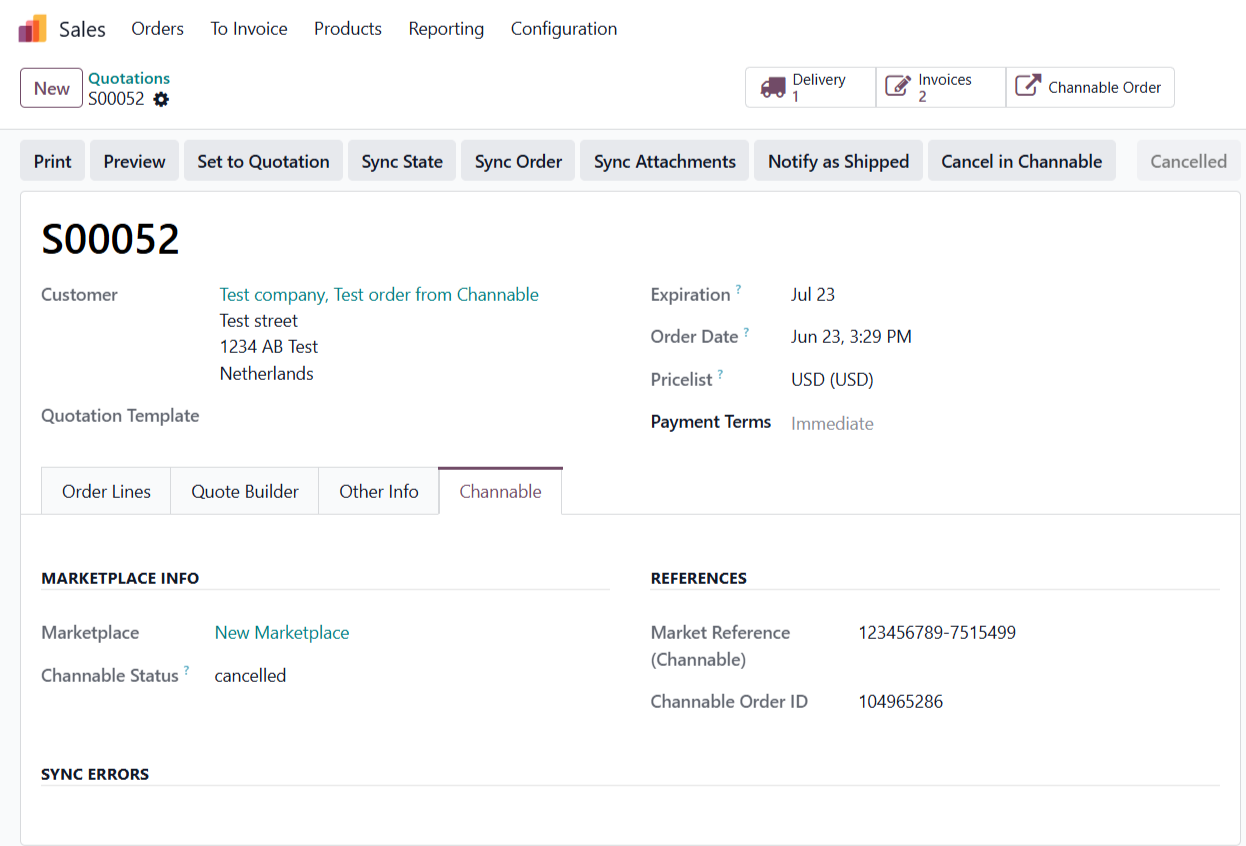
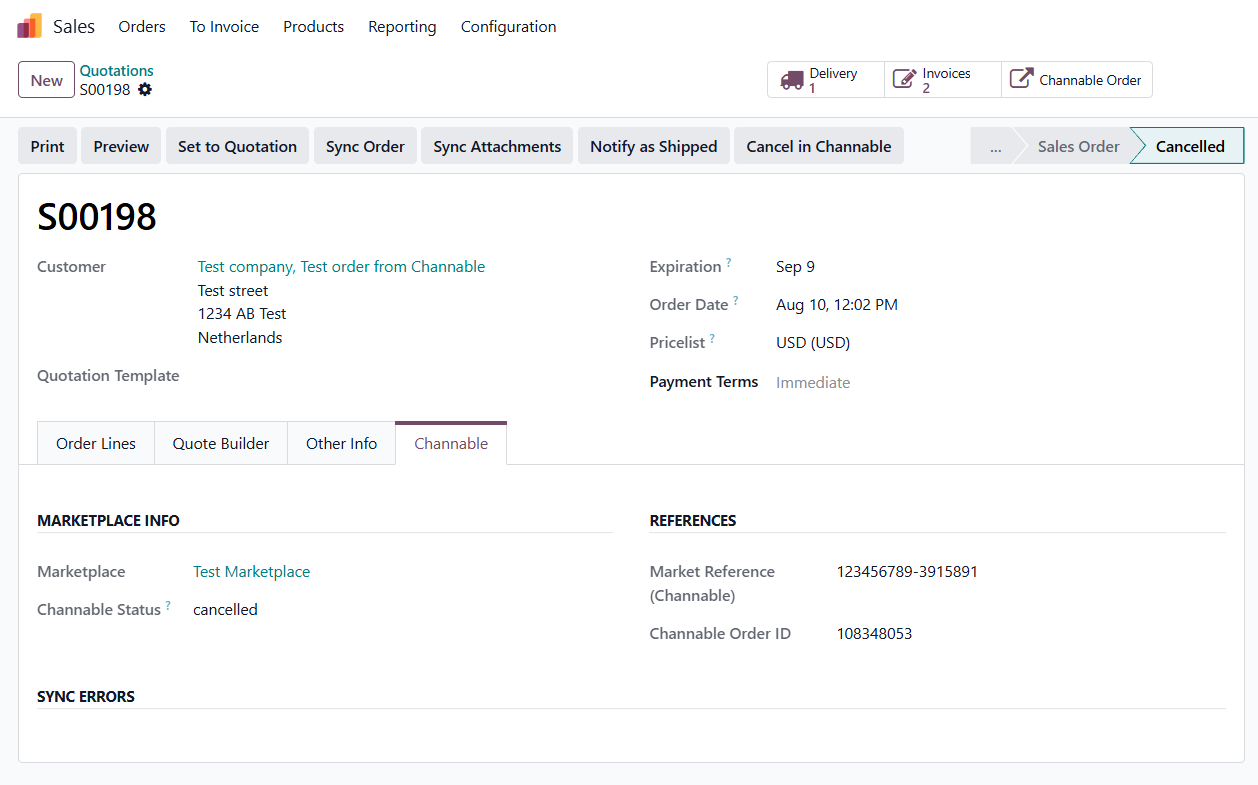
[UPD] removal of state sync in index

diff --git a/cr_channable_connector/static/description/index.html b/cr_channable_connector/static/description/index.html
@@ -618,7 +618,7 @@
 
                             <ul style="font-size: 22px;">
                                 <li>
-                                    By clicking <b>Sync Order</b> sale order form, you can synchronize the order details from Channable to Odoo. By clicking <b>Sync State</b>, you can synchronize the order status from Channable to Odoo. If an order is cancelled in Channable and you perform a sync, the order will also be cancelled in Odoo.
+                                    By clicking <b>Sync Order</b> on the sale order form, you can synchronize the latest order details and status from Channable to Odoo. If an order is cancelled in Channable and you perform a sync, the order will also be automatically cancelled in Odoo.
                                 </li>
                                 <img src="images/sync_cancelled_order_channable.png"
                                     class="img shadow-lg mx-auto mt-4 mb-5" alt="Order Shipped Sync from Odoo to Channable"
